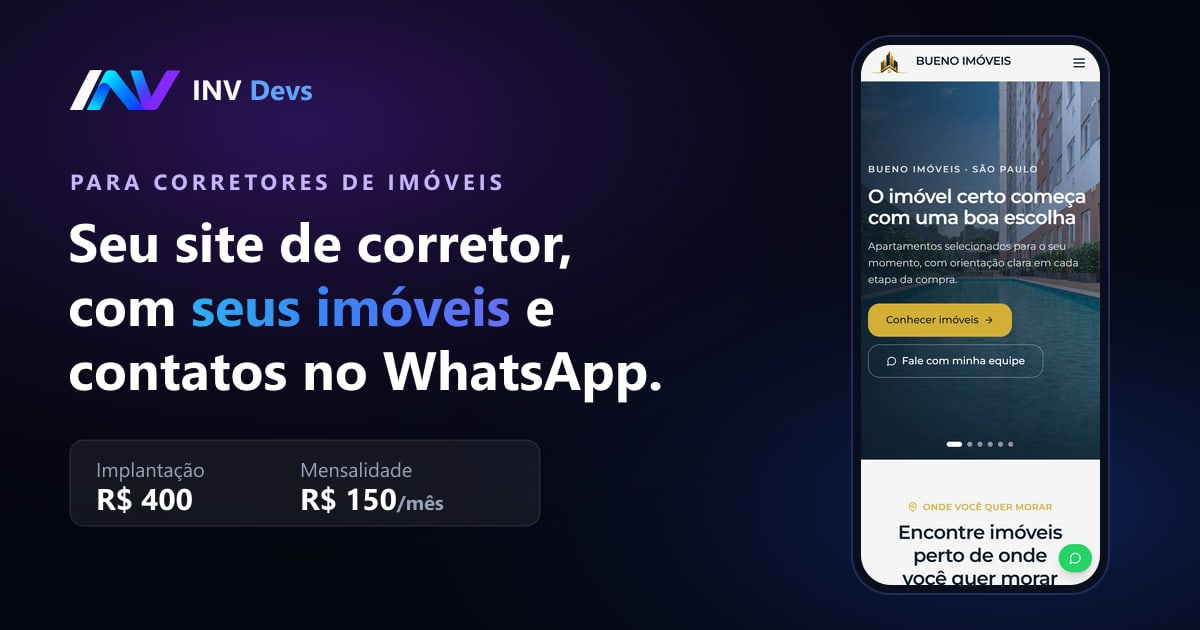
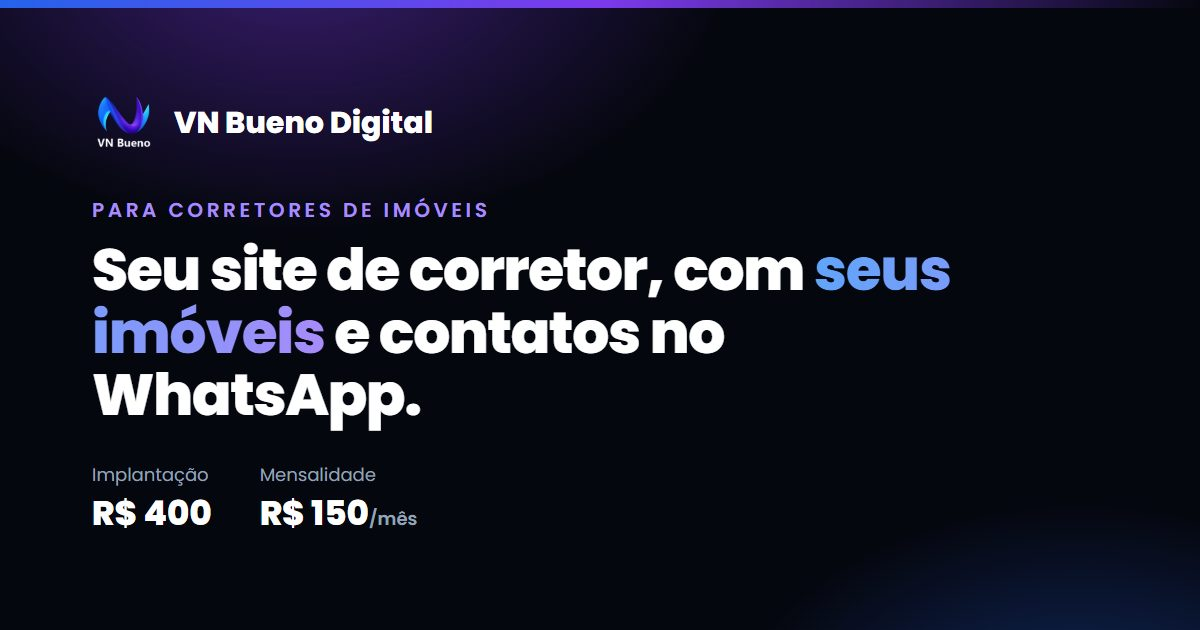
Marca VN Bueno Digital: imagens de compartilhamento refeitas e TikTok (sem perfil ainda) oculto

diff --git a/src/data/site.ts b/src/data/site.ts
@@ -24,7 +24,8 @@ export const site = {
   analytics: false,
 
   instagram: 'https://www.instagram.com/vnbuenodigital/',
-  tiktok: 'https://www.tiktok.com/@inv.devs',
+  // TikTok da VN Bueno Digital ainda não criado. Com a URL aqui, o link volta a aparecer no rodapé.
+  tiktok: '',
 };
 
 export function linkWhatsApp(mensagem = 'Olá! Vim pelo site da VN Bueno Digital e gostaria de um orçamento.') {
